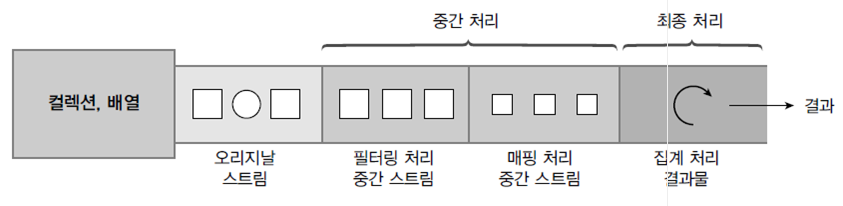
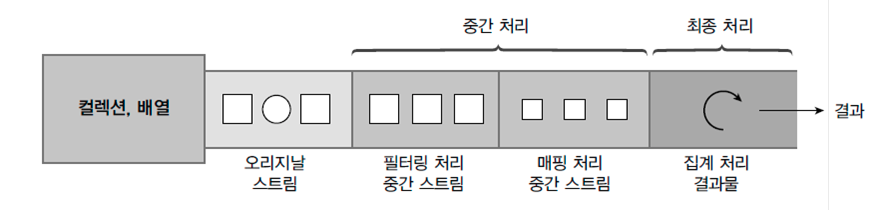
Stream Pipeline

diff --git a/Java/Stream/스트림.md b/Java/Stream/스트림.md
@@ -293,8 +293,81 @@ public class FromIntRangeExample {
 ```
 
 ## 3.스트림 파이프 라인
+대량의 데이터를 가공해서 축소하는 것을 일반적으로 리덕션(Reduction)이라고 하는데, 데이터의 합계, 평균값, 카운팅, 최대값, 최소값 등이 대표적인 리덕션의 결과물이라고 볼 수 있다. 그러나 컬렉션의 요소를 리덕션의 결과물로 바로 집계할 수 없을 경우에는 집계하기 좋도록 필터링, 매핑, 정렬, 그룹핑 등의 중간 처리가 필요하다.
 
+### 3.1 중간 처리와 최종 처리
+스트림은 데이터의 필터링, 매핑, 정렬, 그룹핑 등의 중간 처리와 합계, 평균, 카운팅, 최대값, 최소값 등의 최종 처리를 파이프라인(pipelines)으로 해결한다. 파이프라인은 여러 개의 스트림이 연결되어 있는 구조를 말한다. 파이프라인에서 최종 처리를 제외하고는 모두 중간 처리 스트림이다.
 
+![중간처리](/images/Stream/중간처리.png)
+
+중간 스트림이 생성될 때 요소들이 바로 중간 처리(필터링, 매핑, 정렬)되는 것이 아니라 최종 처리가 시작되기 전까지 중간 처리는 지연(lazy)된다. 최종 처리가 시작되면 비로소 컬렉션의 요소가 하나씩 중간 스트림에서 처리되고 최종 처리까지 오게 된다. 
+<br>
+<br>
+Stream 인터페이스에는 필터링, 매핑, 정렬 등의 많은 중간 처리 메소드가 있는데, 이 메소드들은 중간 처리된 스트림을 리턴한다. 그리고 이 스트림에서 다시 중간 처리 메소드를 호출해서 파이프라인을 형성하게 된다. 예를 들어 회원 컬렉션에서 남자만 필터링하는 중간 스트림을 연결하고, 다시 남자의 나이로 매핑하는 스트림을 연결한 후, 최종 남자 평균 나이를 집계한다면 다음 그림처럼 파이프라인이 형성된다.
+
+![파이프라인](/images/Stream/파이프라인%20예시.png)
+
+```java
+Stream<Member> maleFemaleStream = list.stream();
+Stream<Member> maleStream = maleFemaleStream.filter(m -> m.getSex() == Member.MALE);
+IntStream ageStream = maleStream.mapToInt(Member::getAge);
+OptionalDouble optionalDouble = ageStream.average();
+double ageAvg = optionalDouble.getAsDouble();
+```
+
+로컬 변수를 생략하고 연결하면 다음과 같은 형태의 파이프라인 코드만 남는다.
+
+```java
+double ageAvg = list.stream()
+    .filter(m -> m.getSext() == Member.MALE)
+    .mapToInt(Member::getAge)
+    .average()
+    .getAsDouble();
+```
+
+filter(m -> m.getSex() == Member.MALE)는 남자 Member 객체를 요소로 하는 새로운 스트림을 생성한다. mapToInt(Member :: getAge())는 Member 객체를 age 값으로 매핑해서 age를 요소로 하는 새로운 스트림을 생성한다. average() 메소드는 age 요소들의 평균을 OptionalDouble에 저장한다. OptionalDouble에서 저장된 평균값을 읽으려면 getAsDouble() 메소드를 호출하면 된다.
+
+```java
+package stream.exam02;
+
+import java.util.Arrays;
+import java.util.List;
+
+public class StreamPipelinesExample {
+    public static void main(String[] args) {
+        List<Member> list = Arrays.asList(
+                new Member("홍길동", Member.MALE, 30),
+                new Member("김나리", Member.FEMALE, 20),
+                new Member("신용권", Member.MALE, 45),
+                new Member("박수미", Member.FEMALE, 27)
+        );
+
+        double ageAvg = list.stream()
+                .filter(m -> m.getSex() == Member.MALE)
+                .mapToInt(Member::getAge)
+                .average()
+                .getAsDouble();
+
+        System.out.println("남자 평균 나이: " + ageAvg);
+        
+    }
+}
+```
+
+### 3.2 중간 처리 메소드와 최종 처리 메소드
+스트림 파이프라인에서 중간 처리를 하는 메소드와 최종 처리를 하는 메소드의 종류를 살펴보기로 하자. 다음은 스트림이 제공하는 중간 처리와 최종 처리를 하는 메소드를 설명한 표이다.
+
+중간처리 메소드 종류
+
+![중간처리메소드](/images/Stream/중간처리%20메소드.png)
+
+최종처리 메소드 종류
+
+![최종처리메소드](/images/Stream/최종처리%20메소드.png)
+
+중간 처리 메소드와 최종 처리 메소드를 쉽게 구분하는 방법은 리턴 타입을 보면 안다. 리턴 타입이 스트림이면 중간 처리 메소드이고, 기본 타입이거나 OptionalXXX라면 최종 처리 메소드이다. 
+<br>
+소속된 인터페이스에 공통의 의미는 Stream, IntStream, LongStream, DoubleStream에서 모두 제공된다는 뜻이다.
 <br><br>
 참고 자료: [이것이 자바다(신용권 저)](http://www.yes24.com/Product/Goods/15651484?scode=032&OzSrank=1)
 
